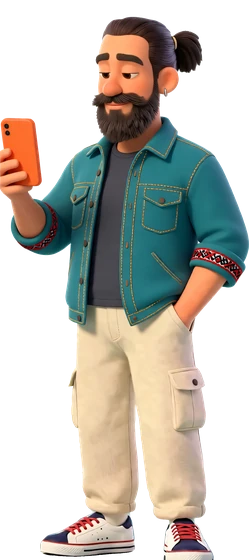
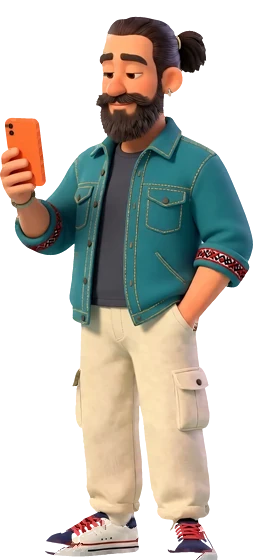
A new musician, the recorder on the map, the player clear of the records
- The musician: a young man with bleached highlights, glasses, a beard, headphones round his neck, a
  black DYNAMICA sweater and denim overalls; on the first screen he plays a keyboard with the black keys
  in their real groups of two and three, on the map the keyboard hangs on his back
- The recording person on the map holds a handheld recorder with two small capsules and wears blue
  scrunchies; on the first screen the windshield's mount now sits on the line of her pole
- The tester's whole hand round the phone; no light outline round the people on the dark map
- The record player sits in the free space between the records and never covers one; on mid widths
  the ring takes the whole width with the track list under it

diff --git a/index.html b/index.html
@@ -11,35 +11,35 @@
 <link rel="preconnect" href="https://fonts.gstatic.com" crossorigin>
 <link rel="stylesheet" href="https://fonts.googleapis.com/css2?family=Archivo:wdth,wght@62..125,100..900&family=Roboto+Flex:wdth,wght@25..151,100..1000&family=Montserrat:wght@600..900&display=swap">
 <script>try{if(localStorage.getItem("sfx-lang")==="uk"){document.documentElement.lang="uk";document.documentElement.classList.add("i18n-wait")}}catch(e){}</script>
-<link rel="stylesheet" href="css/style.css?v=202610232341">
+<link rel="stylesheet" href="css/style.css?v=202610240033">
 <link rel="preload" as="image" href="assets/system/scene-forest.webp" fetchpriority="high">
 <script type="importmap">
 {
   "imports": {
     "three": "https://cdn.jsdelivr.net/npm/three@0.170.0/build/three.module.min.js",
     "three/addons/": "https://cdn.jsdelivr.net/npm/three@0.170.0/examples/jsm/",
-    "./js/audio.js": "./js/audio.js?v=202610232341",
-    "./js/boom-frame.js": "./js/boom-frame.js?v=202610232341",
-    "./js/content.js": "./js/content.js?v=202610232341",
-    "./js/gift.js": "./js/gift.js?v=202610232341",
-    "./js/i18n-boot.js": "./js/i18n-boot.js?v=202610232341",
-    "./js/i18n-uk.js": "./js/i18n-uk.js?v=202610232341",
-    "./js/i18n.js": "./js/i18n.js?v=202610232341",
-    "./js/main.js": "./js/main.js?v=202610232341",
-    "./js/map.js": "./js/map.js?v=202610232341",
-    "./js/music/music.js": "./js/music/music.js?v=202610232341",
-    "./js/music/sound.js": "./js/music/sound.js?v=202610232341",
-    "./js/phone-speakers.js": "./js/phone-speakers.js?v=202610232341",
-    "./js/studio-anim.js": "./js/studio-anim.js?v=202610232341",
-    "./js/studio-console.js": "./js/studio-console.js?v=202610232341",
-    "./js/studio-foley.js": "./js/studio-foley.js?v=202610232341",
-    "./js/studio-piano.js": "./js/studio-piano.js?v=202610232341",
-    "./js/team-carousel.js": "./js/team-carousel.js?v=202610232341"
+    "./js/audio.js": "./js/audio.js?v=202610240033",
+    "./js/boom-frame.js": "./js/boom-frame.js?v=202610240033",
+    "./js/content.js": "./js/content.js?v=202610240033",
+    "./js/gift.js": "./js/gift.js?v=202610240033",
+    "./js/i18n-boot.js": "./js/i18n-boot.js?v=202610240033",
+    "./js/i18n-uk.js": "./js/i18n-uk.js?v=202610240033",
+    "./js/i18n.js": "./js/i18n.js?v=202610240033",
+    "./js/main.js": "./js/main.js?v=202610240033",
+    "./js/map.js": "./js/map.js?v=202610240033",
+    "./js/music/music.js": "./js/music/music.js?v=202610240033",
+    "./js/music/sound.js": "./js/music/sound.js?v=202610240033",
+    "./js/phone-speakers.js": "./js/phone-speakers.js?v=202610240033",
+    "./js/studio-anim.js": "./js/studio-anim.js?v=202610240033",
+    "./js/studio-console.js": "./js/studio-console.js?v=202610240033",
+    "./js/studio-foley.js": "./js/studio-foley.js?v=202610240033",
+    "./js/studio-piano.js": "./js/studio-piano.js?v=202610240033",
+    "./js/team-carousel.js": "./js/team-carousel.js?v=202610240033"
   }
 }
 </script>
-<script type="module" src="js/i18n-boot.js?v=202610232341"></script>
-<script type="module" src="js/main.js?v=202610232341"></script>
+<script type="module" src="js/i18n-boot.js?v=202610240033"></script>
+<script type="module" src="js/main.js?v=202610240033"></script>
 </head>
 <body>
 <a class="skip" href="#main">Skip to content</a>
@@ -89,16 +89,16 @@
       <div class="team" data-team data-start="1" role="region" aria-roledescription="carousel" aria-label="Our team: drag sideways or use the arrows to swap" tabindex="0">
         <div class="team__ring">
           <figure class="team__p" data-member="test" style="--h: .926">
-            <img class="team__body" src="assets/team/test.webp" srcset="assets/team/test-560.webp 249w, assets/team/test.webp 489w" sizes="(max-width: 1024px) 34vw, 17vw" alt="Illustration: a team member testing a mobile game on a phone" width="489" height="1100" decoding="async" draggable="false">
+            <img class="team__body" src="assets/team/test.webp" srcset="assets/team/test-560.webp 253w, assets/team/test.webp 497w" sizes="(max-width: 1024px) 34vw, 17vw" alt="Illustration: a team member testing a mobile game on a phone" width="497" height="1100" decoding="async" draggable="false">
           </figure>
           <figure class="team__p" data-member="rec" style="--h: 1">
             <img class="team__body" src="assets/team/rec-bare.webp" srcset="assets/team/rec-bare-560.webp 276w, assets/team/rec-bare.webp 543w" sizes="(max-width: 1024px) 38vw, 19vw" alt="Illustration: a team member recording sound with a boom microphone" width="543" height="1100" decoding="async" draggable="false">
-            <div class="boom" data-boom data-tip="0.2505,0.1564" data-pole="65.33" data-size="0.6366">
+            <div class="boom" data-boom data-tip="0.2632,0.1564" data-pole="65.33" data-size="0.6366">
               <img class="boom__still" src="assets/team/mic-3d.webp" alt="" decoding="async" draggable="false">
             </div>
           </figure>
           <figure class="team__p" data-member="mix" style="--h: .905">
-            <img class="team__body" src="assets/team/mix.webp" srcset="assets/team/mix-560.webp 233w, assets/team/mix.webp 459w" sizes="(max-width: 1024px) 34vw, 17vw" alt="Illustration: a team member playing a MIDI keyboard" width="459" height="1100" decoding="async" draggable="false">
+            <img class="team__body" src="assets/team/mix.webp" srcset="assets/team/mix-560.webp 231w, assets/team/mix.webp 453w" sizes="(max-width: 1024px) 34vw, 17vw" alt="Illustration: a team member playing a MIDI keyboard" width="453" height="1100" decoding="async" draggable="false">
           </figure>
         </div>
         <div class="team__bar">
@@ -158,7 +158,7 @@
             <section class="bay" data-bay="sfx" aria-labelledby="bay-sfx">
               <h3 class="bay__title" id="bay-sfx"><span class="bay__dot" data-bay-dot="sfx" aria-hidden="true"></span>Sound effects</h3>
               <div class="bay__desk">
-                <img class="bay__person bay__person--rec" src="assets/team/rec-map-560.webp" srcset="assets/team/rec-map-560.webp 293w, assets/team/rec-map.webp 576w" sizes="150px" alt="Illustration: recording sound with a boom microphone" width="576" height="1100" loading="lazy" decoding="async">
+                <img class="bay__person bay__person--rec" src="assets/team/rec-map-560.webp" srcset="assets/team/rec-map-560.webp 199w, assets/team/rec-map.webp 390w" sizes="150px" alt="Illustration: recording sound with a handheld recorder" width="390" height="1100" loading="lazy" decoding="async">
                 <div class="principle__art principle__art--stage" id="card-sfx" data-scene="foley" role="group" aria-label="Sound effects: a boot over dirt, sand, grass and snow. Press a surface to hear the boot step on it."><span class="principle__hint" aria-hidden="true">Pick a surface</span><img class="principle__img" src="assets/studio/foley-640.webp" srcset="assets/studio/foley-640.webp 640w, assets/studio/foley-1024.webp 1024w" sizes="(max-width: 760px) 92vw, 300px" width="1024" height="768" loading="lazy" decoding="async" alt=""></div>
                 <button class="zoom-btn" type="button" data-zoom-open="card-sfx" data-zoom-label="Sound effects" aria-label="Open the sound effects larger"><svg viewBox="0 0 24 24" aria-hidden="true"><path d="M14 4h6v6M20 4l-7 7M10 20H4v-6M4 20l7-7"/></svg></button>
               </div>
@@ -166,7 +166,7 @@
             <section class="bay" data-bay="music" aria-labelledby="bay-music">
               <h3 class="bay__title" id="bay-music"><span class="bay__dot" data-bay-dot="music" aria-hidden="true"></span>Music</h3>
               <div class="bay__desk">
-                <img class="bay__person bay__person--mix" src="assets/team/mix-map-560.webp" srcset="assets/team/mix-map-560.webp 229w, assets/team/mix-map.webp 450w" sizes="150px" alt="Illustration: a musician patching a modular synthesizer" width="450" height="1100" loading="lazy" decoding="async">
+                <img class="bay__person bay__person--mix" src="assets/team/mix-map-560.webp" srcset="assets/team/mix-map-560.webp 215w, assets/team/mix-map.webp 423w" sizes="150px" alt="Illustration: a musician with a MIDI keyboard slung on his back" width="423" height="1100" loading="lazy" decoding="async">
                 <div class="principle__art principle__art--play" id="card-music" data-scene="keys" tabindex="0" role="group" aria-label="A small keyboard you can play" aria-describedby="piano-help"><span class="principle__hint" aria-hidden="true">Play me</span><span class="visually-hidden" id="piano-help">Click or tap the keys. With the keyboard, use A to L for white keys and W, E, T, Y, U, O, P for black keys.</span><img class="principle__img" src="assets/studio/music-640.webp" srcset="assets/studio/music-640.webp 640w, assets/studio/music-1024.webp 1024w" sizes="(max-width: 760px) 92vw, 300px" width="1024" height="768" loading="lazy" decoding="async" alt=""></div>
                 <button class="zoom-btn" type="button" data-zoom-open="card-music" data-zoom-label="Music" aria-label="Open the keyboard larger"><svg viewBox="0 0 24 24" aria-hidden="true"><path d="M14 4h6v6M20 4l-7 7M10 20H4v-6M4 20l7-7"/></svg></button>
               </div>

diff --git a/js/main.js b/js/main.js
@@ -72,7 +72,7 @@ function initHeader() {
 // line on top, the phone under it, the team under the phone. The people's tops come from their pictures:
 // bands of their silhouettes, every 4 % of the height (_dev/tools/team_silhouette.py), her microphone from
 // js/boom-frame.js; thin things (her pole) are left out.
-const SILHOUETTE = {"test":[[0.0,0.04,0.444,0.64],[0.04,0.08,0.407,0.804],[0.08,0.12,0.384,0.812],[0.12,0.16,0.395,0.787],[0.16,0.2,0.37,0.697],[0.2,0.24,0.002,0.714],[0.24,0.28,0.0,0.863],[0.28,0.32,0.0,0.912],[0.32,0.36,0.0,0.949],[0.36,0.4,0.043,0.984],[0.4,0.44,0.043,1.0],[0.44,0.48,0.088,1.0],[0.48,0.52,0.266,0.986],[0.52,0.56,0.262,0.875],[0.56,0.6,0.276,0.798]],"rec":[[0.08,0.12,0.545,0.961],[0.12,0.16,0.538,1.0],[0.16,0.2,0.541,1.0],[0.2,0.24,0.556,0.958],[0.24,0.28,0.554,0.945],[0.28,0.32,0.355,0.932],[0.32,0.36,0.361,0.891],[0.36,0.4,0.328,0.936],[0.4,0.44,0.328,0.972],[0.44,0.48,0.355,0.996],[0.48,0.52,0.49,0.998],[0.52,0.56,0.483,0.969],[0.56,0.6,0.499,0.901]],"mix":[[0.0,0.04,0.187,0.253],[0.04,0.08,0.183,0.588],[0.08,0.12,0.185,0.577],[0.12,0.16,0.196,0.569],[0.16,0.2,0.192,0.582],[0.2,0.24,0.237,0.536],[0.24,0.28,0.174,0.647],[0.28,0.32,0.12,0.702],[0.32,0.36,0.074,0.745],[0.36,0.4,0.028,0.784],[0.4,0.44,0.028,0.791],[0.44,0.48,0.05,0.736],[0.48,0.52,0.0,0.669],[0.52,0.56,0.004,0.675],[0.56,0.6,0.163,0.749]]};
+const SILHOUETTE = {"test":[[0.0,0.04,0.451,0.648],[0.04,0.08,0.414,0.807],[0.08,0.12,0.394,0.815],[0.12,0.16,0.404,0.789],[0.16,0.2,0.38,0.702],[0.2,0.24,0.02,0.718],[0.24,0.28,0.006,0.865],[0.28,0.32,0.0,0.913],[0.32,0.36,0.004,0.95],[0.36,0.4,0.044,0.982],[0.4,0.44,0.058,1.0],[0.44,0.48,0.103,1.0],[0.48,0.52,0.278,0.984],[0.52,0.56,0.274,0.877],[0.56,0.6,0.288,0.799]],"rec":[[0.08,0.12,0.545,0.961],[0.12,0.16,0.538,1.0],[0.16,0.2,0.541,1.0],[0.2,0.24,0.556,0.958],[0.24,0.28,0.554,0.945],[0.28,0.32,0.355,0.932],[0.32,0.36,0.361,0.891],[0.36,0.4,0.328,0.936],[0.4,0.44,0.328,0.972],[0.44,0.48,0.355,0.996],[0.48,0.52,0.49,0.998],[0.52,0.56,0.483,0.969],[0.56,0.6,0.499,0.901]],"mix":[[0.04,0.08,0.223,0.649],[0.08,0.12,0.21,0.658],[0.12,0.16,0.223,0.653],[0.16,0.2,0.254,0.649],[0.2,0.24,0.28,0.603],[0.24,0.28,0.289,0.631],[0.28,0.32,0.155,0.695],[0.32,0.36,0.095,0.762],[0.36,0.4,0.038,0.845],[0.4,0.44,0.0,0.879],[0.44,0.48,0.0,0.879],[0.48,0.52,0.053,0.982],[0.52,0.56,0.216,1.0],[0.56,0.6,0.241,0.788]]};
 const PHONE_RATIO = 2.05;
 
 // every place the people pass on the carousel (k = -1 left ... 0 middle ... +1 right), as rects on the stage
@@ -396,6 +396,7 @@ function initWork(openProject) {
       hub.box.animate([{ opacity: 0.25, transform: 'translateY(6px)' }, { opacity: 1, transform: 'none' }], { duration: 280, easing: 'ease-out' });
     }
     byHand = false;
+    placeHub();
   };
 
   // --- the ring (desktop): the chosen record in front, under the hub; the others travel up the sides
@@ -427,6 +428,39 @@ function initWork(openProject) {
       li.style.setProperty('--depth', front.toFixed(3));
     });
     setActive(mod(Math.round(pos)));
+  }
+
+  // round U2 (the owner: the player covered the records behind it): the player sits in the free band of the ring.
+  // The places on the ring are fixed (only the records move between them), so the band is found from those places:
+  // the lowest record above the player and the highest one below it, among those its width reaches; the player is
+  // centred in that band and scaled down a little when the band is shorter than the player.
+  const hubEl = $('.hub');
+  function placeHub() {
+    if (strip.matches) { hubEl.style.removeProperty('top'); hubEl.style.removeProperty('bottom'); hubEl.style.removeProperty('transform'); return; }
+    const W = stage.clientWidth, H = stage.clientHeight;
+    const S = items[0].offsetWidth;
+    const yFront = H - 18 - S / 2, yBack = 10 + (S * BACK) / 2;
+    const cx = W / 2, cy = (yFront + yBack) / 2, Ry = (yFront - yBack) / 2, Rx = Math.min(W * 0.45, 620);
+    const places = [];
+    for (let k = -Math.floor(N / 2); k <= Math.floor(N / 2); k++) {
+      const a = k * STEP, front = (Math.cos(a) + 1) / 2, depth = 0.78 + 0.22 * front;
+      const x = cx + Math.sin(a) * Rx * depth - S * 0.22 * Math.max(0, 1 - Math.abs(k)) ** 2;
+      const y = cy + Math.cos(a) * Ry, half = (S * (BACK + (1 - BACK) * front ** 1.1)) / 2;
+      places.push({ l: x - half, r: x + half * 1.45, t: y - half * 1.14, b: y + half, y });   // the disc out on the right, the tag above
+    }
+    const hw = hubEl.offsetWidth, hh = hubEl.offsetHeight, gap = 12;
+    let s = 1, top = 0;
+    for (let pass = 0; pass < 3; pass++) {
+      const l = cx - (hw * s) / 2 - gap, r = cx + (hw * s) / 2 + gap;
+      let upper = 0, lower = H;
+      places.forEach((p) => { if (p.r < l || p.l > r) return; if (p.y < cy) upper = Math.max(upper, p.b); else lower = Math.min(lower, p.t); });
+      const avail = lower - upper - 2 * gap;
+      s = Math.max(0.6, Math.min(1, avail / hh));
+      top = upper + gap + Math.max(0, (avail - hh * s) / 2);
+    }
+    hubEl.style.top = `${top.toFixed(1)}px`;
+    hubEl.style.bottom = 'auto';
+    hubEl.style.transform = `translateX(-50%) scale(${s.toFixed(3)})`;
   }
 
   const tick = (now) => {
@@ -530,9 +564,10 @@ function initWork(openProject) {
       makeGhosts();
       requestAnimationFrame(() => { markCentre(items[Math.max(active, 0)]); stripCentre(); });
     } else { dropGhosts(); pos = target = mod(Math.max(active, 0)); layout(); }
+    placeHub();
   };
   strip.addEventListener('change', applyMode);
-  new ResizeObserver(() => (strip.matches ? stripCentre() : layout())).observe(stage);
+  new ResizeObserver(() => { if (strip.matches) stripCentre(); else layout(); placeHub(); }).observe(stage);
 
   // --- input
   $('[data-prev]').addEventListener('click', () => go(-1));

diff --git a/css/style.css b/css/style.css
@@ -409,6 +409,7 @@ ul { padding: 0; list-style: none; }
   -webkit-backdrop-filter: blur(16px); backdrop-filter: blur(16px);
   box-shadow: inset 0 0 0 1px rgba(255, 255, 255, .2), inset 0 4px 0 var(--accent, transparent), 0 24px 40px -26px rgba(0, 20, 40, .7);
   transition: box-shadow .4s;
+  transform-origin: 50% 0;   /* round U2: placed and, when the ring is tight, scaled from its top (js/main.js placeHub) */
 }
 .hub__head { display: flex; align-items: baseline; justify-content: space-between; gap: 12px; margin-bottom: 8px; }
 .hub__now { display: inline-flex; align-items: center; gap: 8px; font-weight: 800; font-size: .8125rem; letter-spacing: .08em; text-transform: uppercase; color: rgba(255, 255, 255, .86); }
@@ -605,6 +606,13 @@ ul { padding: 0; list-style: none; }
 @media (prefers-reduced-motion: reduce) { .rec .disc__label { animation: none !important; } .rec .disc { transition: none; } }
 .work__note { position: relative; z-index: 1; max-width: 62ch; margin: 0 auto; padding: 6px var(--gutter) 0; text-align: center; color: rgba(255, 255, 255, .84); font-size: .9375rem; line-height: 1.45; }
 
+/* round U2: on narrower desktops and tablets in landscape the ring takes the whole width (the player then fits between
+   the records without shrinking much) and the track list goes under it, three cells across */
+@media (min-width: 901px) and (max-width: 1359px) {
+  .work__deck { grid-template-columns: minmax(0, 1fr); }
+  .tracks { width: min(100%, 860px); margin: 4px auto 0; }
+  .tracks__list { grid-template-columns: repeat(3, minmax(0, 1fr)); gap: 2px 8px; }
+}
 /* narrow (round R, round S): a strip of sleeves to swipe (the middle one is chosen), the player under it, the
    track list under that; a swipe across the player changes the record too */
 @media (max-width: 900px) {
@@ -1229,8 +1237,8 @@ ul { padding: 0; list-style: none; }
   position: absolute; z-index: 0; left: var(--person-x); top: calc(var(--pt) - var(--fig) * var(--k) * var(--waist));
   height: calc(var(--fig) * var(--k)); width: auto; max-width: none; pointer-events: none; user-select: none;
 }
-[data-bay="sfx"] .bay__desk { --k: 1.12; --waist: .53; --person-x: 2%; }   /* round T: her map pose (rec-map.webp, head to shoes) */
-[data-bay="music"] .bay__desk { --k: 1.14; --waist: .5; --person-x: 22%; }   /* round T: his map pose (mix-map.webp) */
+[data-bay="sfx"] .bay__desk { --k: 1.12; --waist: .53; --person-x: 7%; }   /* round U2: her map pose with the handheld recorder (rec-map.webp) */
+[data-bay="music"] .bay__desk { --k: 1.14; --waist: .5; --person-x: 22%; }   /* round U2: his map pose, the keyboard on his back (mix-map.webp) */
 /* stage 03: the tester stands beside the Game Boy */
 .bay__desk--side { display: grid; grid-template-columns: auto minmax(0, 1fr); align-items: end; gap: 6px; padding-top: 0; }
 .bay__desk--side .bay__person { position: relative; left: auto; top: auto; margin-bottom: -2px; height: calc(var(--fig) * .98); }

diff --git a/js/i18n-uk.js b/js/i18n-uk.js
@@ -116,7 +116,8 @@ export const UK = {
   'Sound effects: a boot over dirt, sand, grass and snow. Press a surface to hear the boot step on it.':
     'Звукові ефекти: черевик над землею, піском, травою і снігом. Натисніть на поверхню, щоб почути крок по ній.',
   'Open the sound effects larger': 'Відкрити звукові ефекти більшими',
-  'Illustration: a musician patching a modular synthesizer': 'Ілюстрація: музикант комутує модульний синтезатор',
+  'Illustration: a musician with a MIDI keyboard slung on his back': 'Ілюстрація: музикант із MIDI-клавіатурою за спиною',
+  'Illustration: recording sound with a handheld recorder': 'Ілюстрація: запис звуку ручним рекордером',
   'Open the keyboard larger': 'Відкрити клавіатуру більшою',
   'We connect the solution to the game and check its behaviour and balance in gameplay.': 'Підключаємо рішення до гри й перевіряємо його поведінку та баланс у геймплеї.',
   'Checked in the game': 'Перевірено в грі',
